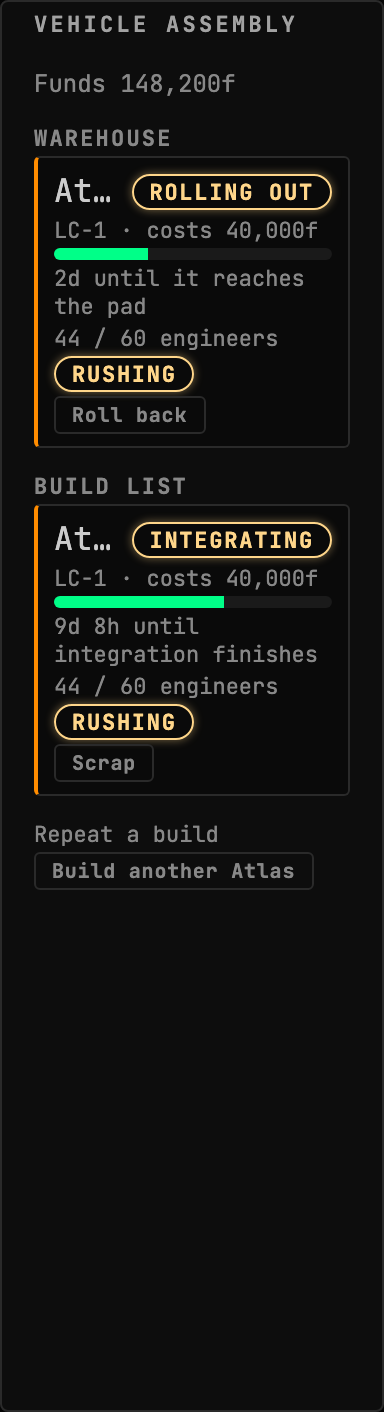
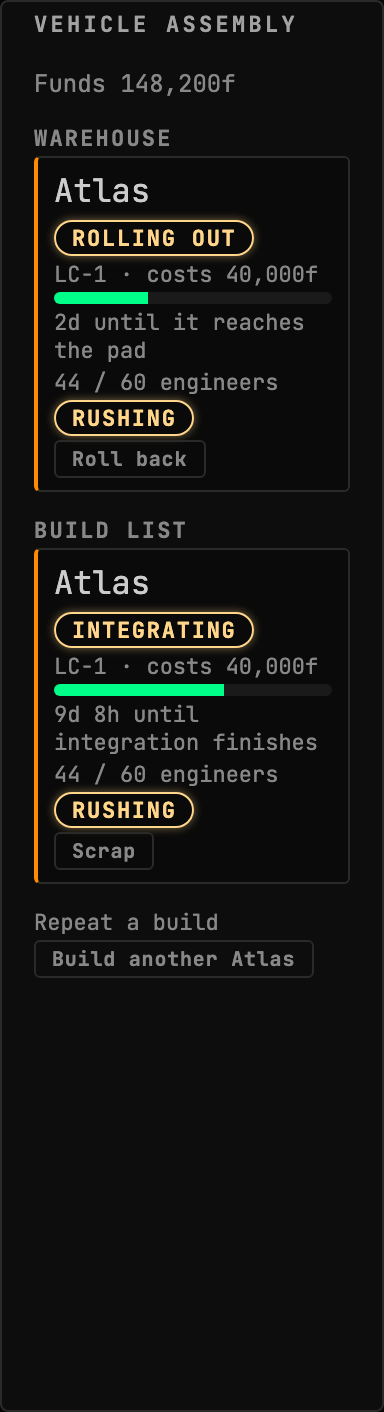
fix(rp1): let a project card's name wrap instead of truncating
At the 4x6 minimum Vehicle Assembly declares, "Atlas" rendered as "Atl…" and a
build-list card rendered its badge with no name at all beside it. The card was
using RowName, which ellipsises and takes `flex: 1`, so the badge won the row
and the heading shrank to nothing. A card's name is the only part of it that
says which piece of work it is, so it is the last thing that may go.

The name is plain Text now and the header cluster wraps: a badge that will not
fit beside a long name drops under it. Same rendering at every width the name
already fitted, so the construction cards are unchanged.

diff --git a/mod/GonogoRp1Uplink/client/src/shared/ProjectCard.tsx b/mod/GonogoRp1Uplink/client/src/shared/ProjectCard.tsx
@@ -1,11 +1,4 @@
-import {
-  Card,
-  Cluster,
-  ProgressBar,
-  RowName,
-  Stack,
-  Text,
-} from "@ksp-gonogo/ui-kit";
+import { Card, Cluster, ProgressBar, Stack, Text } from "@ksp-gonogo/ui-kit";
 import type { ReactNode } from "react";
 
 /**
@@ -63,8 +56,16 @@ export function ProjectCard({
   return (
     <Card as="li" tone={tone}>
       <Stack gap="xs">
-        <Cluster gap="sm">
-          <RowName>{name}</RowName>
+        {/* The name WRAPS rather than truncating, which is what separates a
+            card's heading from a row's label. `RowName` ellipsises and flexes
+            to fill, so at the minimum width a widget promises "Atlas" rendered
+            as "Atl…" and a build-list card rendered its badge with no name at
+            all beside it. The name is the only part of a card that says WHICH
+            piece of work it is, so it is the last thing that may go. The
+            cluster wraps for the same reason: a badge that will not fit beside
+            a long name drops under it instead of squeezing it. */}
+        <Cluster align="start" gap="sm" wrap>
+          <Text tone="default">{name}</Text>
           {badge}
         </Cluster>
 
